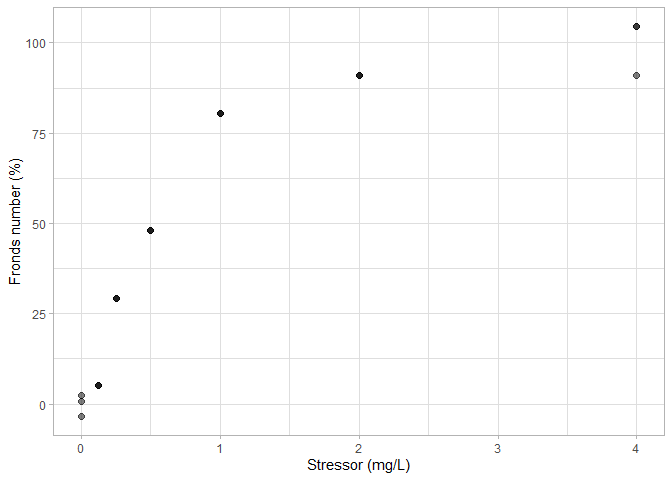
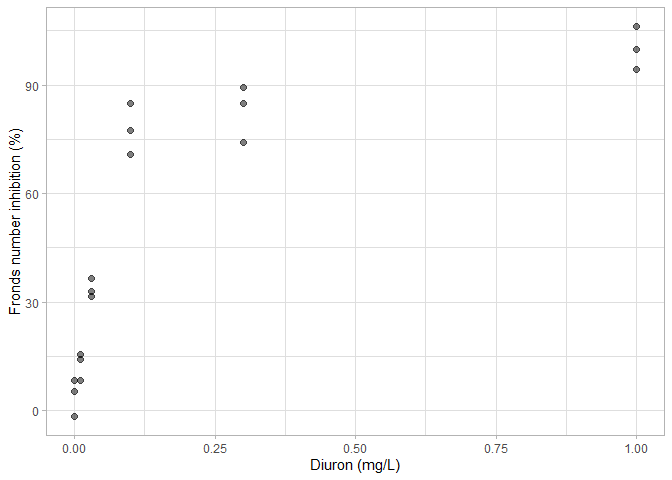
Update w/ course data

diff --git a/README.md b/README.md
@@ -36,29 +36,48 @@ We are now ready to load the data\!
 First, we load the raw data and inspect it.
 
 ``` r
-data <- read_xlsx(path = "Data/FMI330 Data.xlsx", sheet = "Summary")
+data <- read_xlsx(path = "Data/Diuron_DRC_Data_RevLee.xlsx", sheet = "Summary") %>% 
+  select(-SampleName, -Replicate) %>% 
+  rename(Concentration = concentration, 
+         Fronds_number_inhibition = FN_Normalization_PERCENT,
+         Frond_size_inhibition = FS_Normalization_PERCENT,
+         Photosystem_II_inhibition = PSII_Normalization_PERCENT,
+         ROS_formation = `ROS_Formation_Fold increase`,
+         Chlorophyll_A_inhibition = `Chlorophyll a_inhibition_PERCENT`,
+         Chlorophyll_B_inhibition = `Chlorophyll b_inhibition_PERCENT`, 
+         Carotenoids_inhibition = Carotenoids_inhibition_PERCENT) %>% 
+  filter(!str_detect(Note, "CT")) %>% 
+  select(-Note)
 
 data
 ```
 
-    ## # A tibble: 21 x 11
-    ##    Sample_name Concentration Note  Replicate Fronds_number Frond_size
-    ##    <chr>               <dbl> <chr>     <dbl>         <dbl>      <dbl>
-    ##  1 S1                  0     CT            1         0.780      -5.74
-    ##  2 S2                  0.125 <NA>          1         5.24       16.4 
-    ##  3 S3                  0.25  <NA>          1        29.2         9.02
-    ##  4 S4                  0.5   <NA>          1        48.1        45.9 
-    ##  5 S5                  1     <NA>          1        80.6        97.5 
-    ##  6 S6                  2     <NA>          1        91.0        95.1 
-    ##  7 S7                  4     <NA>          1        91.0       100   
-    ##  8 S8                  0     CT            2         2.51       -3.28
-    ##  9 S9                  0.125 <NA>          2         5.24       16.4 
-    ## 10 S10                 0.25  <NA>          2        29.2         9.02
-    ## # ... with 11 more rows, and 5 more variables: Photosystem_II <dbl>,
-    ## #   ROS_formation <dbl>, Chlorophyll_A <lgl>, Chlorophyll_B <lgl>,
-    ## #   Carotenoids <lgl>
+    ## # A tibble: 18 x 8
+    ##    Concentration Fronds_number_i~ Frond_size_inhi~ Photosystem_II_~
+    ##            <dbl>            <dbl>            <dbl>            <dbl>
+    ##  1          0                8.40            18.4             -1.75
+    ##  2          0.01            14.0             60.8             21.0 
+    ##  3          0.03            32.8             86.3             77.7 
+    ##  4          0.1             84.9             80.2             86.8 
+    ##  5          0.3             84.9            121.              87.9 
+    ##  6          1              106.             105.             100   
+    ##  7          0               -1.53            -2.73            -1.18
+    ##  8          0.01            15.6            -25.3             21.3 
+    ##  9          0.03            36.6              8.98            58.2 
+    ## 10          0.1             77.3            111.              87.1 
+    ## 11          0.3             74.0             75.4             75.3 
+    ## 12          1               99.7             98.8            100   
+    ## 13          0                5.23            17.0             -2.46
+    ## 14          0.01             8.40           -12.0             23.1 
+    ## 15          0.03            31.7             16.9             51.0 
+    ## 16          0.1             70.9             77.0             87.1 
+    ## 17          0.3             89.3            127.             100   
+    ## 18          1               94.2             95.9            100   
+    ## # ... with 4 more variables: ROS_formation <dbl>,
+    ## #   Chlorophyll_A_inhibition <dbl>, Chlorophyll_B_inhibition <dbl>,
+    ## #   Carotenoids_inhibition <dbl>
 
-# Fronds\_number
+# Fronds number
 
 ## Visualizing the raw data
 
@@ -69,9 +88,9 @@ of your reports\!
 ``` r
 data %>% 
   ggplot() +
-  geom_point(mapping = aes(x = Concentration, y = Fronds_number), size = 2, alpha = 0.5) +
-  labs(x = "Stressor (mg/L)", 
-       y = "Fronds number (%)") +
+  geom_point(mapping = aes(x = Concentration, y = Fronds_number_inhibition), size = 2, alpha = 0.5) +
+  labs(x = "Diuron (mg/L)", 
+       y = "Fronds number inhibition (%)") +
   theme_light()
 ```
 
@@ -102,7 +121,7 @@ using Holm’s method.
 ``` r
 data %>% 
   mutate(Concentration = fct_relevel(as.character(Concentration), "0")) %>% 
-  lm(formula = Fronds_number ~ Concentration, data = ., contrasts = list(Concentration = "contr.treatment")) %>% 
+  lm(formula = Fronds_number_inhibition ~ Concentration, data = ., contrasts = list(Concentration = "contr.treatment")) %>% 
   glht(linfct = mcp(Concentration = "Dunnett"), vcov = sandwich) %>% 
   summary(test = adjusted(type = "holm"))
 ```
@@ -113,16 +132,16 @@ data %>%
     ## Multiple Comparisons of Means: Dunnett Contrasts
     ## 
     ## 
-    ## Fit: lm(formula = Fronds_number ~ Concentration, data = ., contrasts = list(Concentration = "contr.treatment"))
+    ## Fit: lm(formula = Fronds_number_inhibition ~ Concentration, data = ., 
+    ##     contrasts = list(Concentration = "contr.treatment"))
     ## 
     ## Linear Hypotheses:
-    ##                Estimate Std. Error t value Pr(>|t|)    
-    ## 0.125 - 0 == 0    5.241      1.405    3.73  0.00224 ** 
-    ## 0.25 - 0 == 0    29.152      1.405   20.75 1.31e-11 ***
-    ## 0.5 - 0 == 0     48.132      1.405   34.25 2.66e-14 ***
-    ## 1 - 0 == 0       80.577      1.405   57.34  < 2e-16 ***
-    ## 2 - 0 == 0       91.023      1.405   64.78  < 2e-16 ***
-    ## 4 - 0 == 0      100.000      3.925   25.48 1.19e-12 ***
+    ##               Estimate Std. Error t value Pr(>|t|)    
+    ## 0.01 - 0 == 0    8.643      2.982   2.898   0.0134 *  
+    ## 0.03 - 0 == 0   29.646      2.677  11.075 2.35e-07 ***
+    ## 0.1 - 0 == 0    73.671      4.074  18.081 1.81e-09 ***
+    ## 0.3 - 0 == 0    78.683      4.413  17.829 1.81e-09 ***
+    ## 1 - 0 == 0      95.966      3.697  25.958 3.26e-11 ***
     ## ---
     ## Signif. codes:  0 '***' 0.001 '**' 0.01 '*' 0.05 '.' 0.1 ' ' 1
     ## (Adjusted p values reported -- holm method)
@@ -139,22 +158,22 @@ four parameters, or coefficients) using `coeftest` with adjusted
 variance-covariance matrix.
 
 ``` r
-reproduction.drm <- data %>% 
-  drm(formula = Fronds_number ~ Concentration, data = .,
+fronds_number_inhibition.drm <- data %>% 
+  drm(formula = Fronds_number_inhibition ~ Concentration, data = .,
       fct = LL.4(names = c("Slope", "Lower Limit", "Upper Limit", "EC50")))
 
-reproduction.drm %>% 
+fronds_number_inhibition.drm %>% 
   coeftest(vcov. = sandwich)
 ```
 
     ## 
     ## t test of coefficients:
     ## 
-    ##                           Estimate Std. Error  t value  Pr(>|t|)    
-    ## Slope:(Intercept)        -1.644655   0.135219 -12.1629 8.185e-10 ***
-    ## Lower Limit:(Intercept)  -1.100778   1.491234  -0.7382    0.4705    
-    ## Upper Limit:(Intercept) 102.321014   3.742989  27.3367 1.721e-15 ***
-    ## EC50:(Intercept)          0.488845   0.033115  14.7620 3.989e-11 ***
+    ##                           Estimate Std. Error t value  Pr(>|t|)    
+    ## Slope:(Intercept)       -1.5074985  0.3205381 -4.7030 0.0003392 ***
+    ## Lower Limit:(Intercept)  3.9154197  2.4254658  1.6143 0.1287686    
+    ## Upper Limit:(Intercept) 95.8043675  4.9639031 19.3002 1.742e-11 ***
+    ## EC50:(Intercept)         0.0463548  0.0057536  8.0567 1.261e-06 ***
     ## ---
     ## Signif. codes:  0 '***' 0.001 '**' 0.01 '*' 0.05 '.' 0.1 ' ' 1
 
@@ -165,19 +184,21 @@ the EC<sub>50</sub> value is also realistic.
 ## EC<sub>X</sub> derivation
 
 Let’s take a look at the corrected parameter estimates and the
-EC<sub>5</sub> and EC<sub>50</sub> values with 95% confidence limits.
+EC<sub>5</sub>, EC<sub>10</sub>, and EC<sub>50</sub> values with 95%
+confidence limits.
 
 ``` r
-reproduction.drm %>% 
-  ED(respLev = c(5, 50), interval = "delta", vcov. = sandwich)
+fronds_number_inhibition.drm %>% 
+  ED(respLev = c(5, 10, 50), interval = "delta", vcov. = sandwich)
 ```
 
     ## 
     ## Estimated effective doses
     ## 
-    ##        Estimate Std. Error    Lower    Upper
-    ## e:1:5  0.081592   0.010578 0.059274 0.103910
-    ## e:1:50 0.488845   0.033115 0.418978 0.558711
+    ##         Estimate Std. Error     Lower     Upper
+    ## e:1:5  0.0065740  0.0022098 0.0018345 0.0113136
+    ## e:1:10 0.0107919  0.0025439 0.0053358 0.0162479
+    ## e:1:50 0.0463548  0.0057536 0.0340146 0.0586950
 
 ## Plotting of the dose-response curve
 
@@ -186,20 +207,18 @@ curve. This is *not* straight forward, as it requires advanced use of
 the `predict()` function, so feel free to copy-paste.
 
 ``` r
-reproduction.pred <- data.frame(Concentration = seq(from = min(data$Concentration),
-                                                    to = max(data$Concentration),
-                                                    length.out = 1000)) %>% 
-  mutate(fit = predict(reproduction.drm, newdata = .), 
-         lwr = predict(reproduction.drm, newdata = ., interval = "confidence", vcov. = sandwich)[, 2], 
-         upr = predict(reproduction.drm, newdata = ., interval = "confidence", vcov. = sandwich)[, 3])
-
-data %>% 
+data.frame(Concentration = seq(from = min(data$Concentration),
+                               to = max(data$Concentration),
+                               length.out = 1000)) %>% 
+  mutate(fit = predict(fronds_number_inhibition.drm, newdata = .), 
+         lwr = predict(fronds_number_inhibition.drm, newdata = ., interval = "confidence", vcov. = sandwich)[, 2], 
+         upr = predict(fronds_number_inhibition.drm, newdata = ., interval = "confidence", vcov. = sandwich)[, 3]) %>% 
   ggplot() +
-  geom_ribbon(mapping = aes(x = Concentration, ymin = lwr, ymax = upr), data = reproduction.pred, alpha = 0.2) +
-  geom_line(mapping = aes(x = Concentration, y = fit), data = reproduction.pred, size = 1) +
-  geom_point(mapping = aes(x = Concentration, y = Fronds_number), size = 2, alpha = 0.5) +
-  labs(x = "Stressor (mg/L)", 
-       y = "Fronds number (%)") +
+  geom_ribbon(mapping = aes(x = Concentration, ymin = lwr, ymax = upr), alpha = 0.2) +
+  geom_line(mapping = aes(x = Concentration, y = fit), size = 1) +
+  geom_point(mapping = aes(x = Concentration, y = Fronds_number_inhibition), data = data, size = 2, alpha = 0.5) +
+  labs(x = "Diuron (mg/L)", 
+       y = "Fronds number inhibition (%)") +
   theme_light()
 ```
 
@@ -208,5 +227,5 @@ data %>%
 Looks good, so let’s save the plot.
 
 ``` r
-ggsave("Figures/Fronds number.png", height = 5.25, width = 7, units = "in", dpi = 600, type = "cairo-png")
+ggsave("Figures/Fronds number inhibition.png", height = 5.25, width = 7, units = "in", dpi = 600, type = "cairo-png")
 ```
